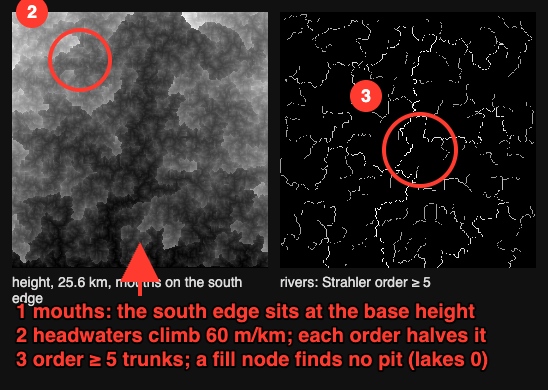
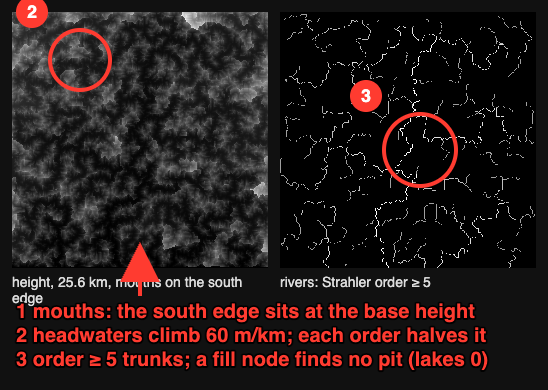
feat(hydrology): valley floors on the hydrology-first terrain
`NetworkParams.valley_width_m` (600): within that distance along the stream of a river cell the
slope eases to a floodplain (15 % of the headwater law). The distance only grows upstream, so
every cell still sits above its parent and the drainage test holds; the mean height drops by
more than a fifth against width 0. Figure and quickstart updated.

diff --git a/apps/desktop/src/lib/ops.gen.ts b/apps/desktop/src/lib/ops.gen.ts
@@ -1707,6 +1707,9 @@ export type NodeParams_jd_hydrology_network_1 = {
   "roughness"?: number;
   /** Strahler order from which a channel counts as a river in the `rivers` output (≥ 1). */
   "river_order"?: number;
+  /** Valley floor: within this distance (metres along the stream) of a river the slope eases to a
+floodplain (15 % of the headwater law), so valleys get a floor instead of a V (0 = off). */
+  "valley_width_m"?: number;
 };
 
 export type NodeParams_jd_hydrology_rivers_1 = {

diff --git a/crates/jd-terrain/src/network.rs b/crates/jd-terrain/src/network.rs
@@ -61,6 +61,13 @@ pub struct NetworkParams {
     /// Strahler order from which a channel counts as a river in the `rivers` output (≥ 1).
     #[serde(default = "d_river_order")]
     pub river_order: u32,
+    /// Valley floor: within this distance (metres along the stream) of a river the slope eases to a
+    /// floodplain (15 % of the headwater law), so valleys get a floor instead of a V (0 = off).
+    #[serde(default = "d_valley_width")]
+    pub valley_width_m: f32,
+}
+fn d_valley_width() -> f32 {
+    600.0
 }
 
 fn d_slope() -> f32 {
@@ -86,6 +93,7 @@ impl Default for NetworkParams {
             order_falloff: d_falloff(),
             roughness: d_roughness(),
             river_order: d_river_order(),
+            valley_width_m: d_valley_width(),
         }
     }
 }
@@ -152,6 +160,9 @@ pub fn hydrology_first(
     }
     if p.river_order == 0 {
         return Err(JdError::invalid("river_order", "must be ≥ 1"));
+    }
+    if !(p.valley_width_m >= 0.0 && p.valley_width_m.is_finite()) {
+        return Err(JdError::invalid("valley_width_m", "must be finite and ≥ 0"));
     }
     if !p.base_m.is_finite() {
         return Err(JdError::invalid("base_m", "must be finite"));
@@ -265,7 +276,11 @@ pub fn hydrology_first(
         }
     }
     // Heights: parents before children; a cell sits above its parent by the slope of its order.
+    // Heights, parents before children: a cell sits above its parent by the slope of its order,
+    // eased towards a floodplain within `valley_width_m` (along the stream) of a river cell —
+    // `to_river` only grows upstream, so every cell still sits above its parent.
     let mut hgt = vec![p.base_m; n];
+    let mut to_river = vec![0.0f32; n];
     for &i in by_dist.iter().rev() {
         let i = i as usize;
         let pi = parent[i];
@@ -273,8 +288,20 @@ pub fn hydrology_first(
             continue;
         }
         let pi = pi as usize;
-        let slope = p.slope_m_per_km / 1000.0 * p.order_falloff.powi(order[i] as i32 - 1);
-        hgt[i] = hgt[pi] + (dist[i] - dist[pi]) * slope;
+        let step = dist[i] - dist[pi];
+        to_river[i] = if order[i] >= p.river_order {
+            0.0
+        } else {
+            to_river[pi] + step
+        };
+        let floor = if p.valley_width_m > 0.0 {
+            let t = (to_river[i] / p.valley_width_m).clamp(0.0, 1.0);
+            0.15 + 0.85 * t * t * (3.0 - 2.0 * t)
+        } else {
+            1.0
+        };
+        let slope = p.slope_m_per_km / 1000.0 * p.order_falloff.powi(order[i] as i32 - 1) * floor;
+        hgt[i] = hgt[pi] + step * slope;
     }
     let max_order = order.iter().copied().max().unwrap_or(1).max(1) as f32;
     let mut out = Heightfield::new(width, height, tile_size, halo)?;
@@ -360,6 +387,47 @@ mod tests {
         )
         .expect("seed");
         assert_ne!(h.content_hash(), h3.content_hash());
+        // Valley floors: easing the slope near rivers lowers the land next to them; the drainage
+        // property survives (the fill still finds nothing).
+        let (v, _, _) = hydrology_first(
+            96,
+            64,
+            64,
+            4,
+            [50.0, 50.0],
+            &NetworkParams {
+                valley_width_m: 1500.0,
+                ..p.clone()
+            },
+        )
+        .expect("valley");
+        let (sharp, _, _) = hydrology_first(
+            96,
+            64,
+            64,
+            4,
+            [50.0, 50.0],
+            &NetworkParams {
+                valley_width_m: 0.0,
+                ..p.clone()
+            },
+        )
+        .expect("v");
+        let mean = |f: &Heightfield| f.to_vec().iter().sum::<f32>() / (96.0 * 64.0);
+        assert!(
+            mean(&v) < 0.8 * mean(&sharp),
+            "floodplains lower the land: {} vs {}",
+            mean(&v),
+            mean(&sharp)
+        );
+        let (vf, _) = crate::fill_depressions(&v, 0.0).expect("fill v");
+        assert!(
+            v.to_vec()
+                .iter()
+                .zip(&vf.to_vec())
+                .all(|(a, b)| (a - b).abs() < 1e-4),
+            "valley floors still drain"
+        );
         // An island drains to every edge; a bad slope is refused.
         let (isl, _, _) = hydrology_first(
             48,

diff --git a/memory/todo.md b/memory/todo.md
@@ -51,7 +51,7 @@ Conventions: `- [ ]` planned · `- [x]` done · `- [~]` in progress (add owner) 
 
 ## Phase 3 — Simulation
 - [~] Thermal ✔ (CPU Jacobi, `jd.erosion.thermal@1`, mass-conserving; GPU ✔ (`engine: gpu` → `jd-gpu` WGSL kernel incl. hardness, parity 1.9e-7 / 4.8e-8 with hardness, 1024² × 50: 295 ms vs 3144 ms debug CPU, release 2048² 146 vs 683 ms); tile-local ☐) · hydraulic (grid/virtual pipes) ✔ (`jd.erosion.hydraulic@1`, CPU, closed boundary, concentration cap ✔, per-cell `rain` mask input ✔, GPU ✔ (`engine: gpu`, 3 WGSL passes incl. hardness + rain + drains, parity 1 ulp/step, 1024² × 100: 578 vs 6486 ms debug); drains ✔ (`drains` mask > 0.5: water and sediment leave there, both engines, tests); layers ☐) · hydraulic (particle/droplet) ✔ (`jd.erosion.droplet@1`, Beyer, deterministic, 1024² × 1.5 M ≈ 4.6 s release) · stream-power ✔ (`jd.erosion.stream_power@1`, implicit, D8/D∞/MFD area, uplift; 2048² × 20 ≈ 4 s release) · wind ✔ (`jd.erosion.aeolian@1`, Werner slab model, mass-exact, optional sand mask) · bimodal winds ✔ (`wind2_azimuth_deg` + `wind2_share`, seeded step sequence; reticulate ridge network on the dune plain) · vegetation ✔ (`vegetation` input: cover holds and catches sand; anchored mounds; unit test) · coastal ✔ (`jd.erosion.coastal@1`: exposure-driven cliff retreat + platform/beach deposition, mass-exact) · fetch + longshore drift ✔ (`drift` 0..1 with `wind_azimuth_deg` / world wind: windward exposure, downwind deposition; unit test; `exposure` input ✔ (the sea-level node's wave exposure scales the wave work: sheltered bays keep their shore; test); refraction / coast-wide budget ☐) · snow cover mask ✔ (`jd.climate.snow@1`: snow line, slope retention, sun aspect, wind scour) · snowpack sim ✔ (`jd.climate.snowpack@1`: accumulation where cold, degree-day melt with lapse rate + sun, windward→lee drift; `depth` + `cover`; keyed temperature over the timeline → `snowpack-melt.mp4`; avalanching ✔ (`avalanche_slope_deg` / `avalanche_strength`: steep cells slide to the lowest neighbouring snow surface, mass-exact, unit test); albedo ✔ (`albedo` 0..1 scales the melt by 1 − albedo × cover; unit test))
-- [~] Hydrology: D8 flow accumulation ✔ (`jd.analysis.flow@1`), priority-flood fill ✔ (`jd.hydrology.fill@1`, outputs drainable field + `lakes`), rivers ✔ (`jd.hydrology.rivers@1`: fill → D8 accumulation → smoothstep incision, `rivers` mask); TWI ✔ (`jd.hydrology.wetness@1`); D∞ ✔ + MFD ✔ (`method: d8|dinf|mfd` on flow + rivers nodes; wetness d8/dinf/mfd ✔ via `method`); sea level ✔ (`jd.hydrology.sea_level@1`: border-connected `ocean` + `depth`); viewport sea plane ✔ (follows the sea_level node); hydrology-first generation ✔ (`jd.hydrology.network@1`: seeded random spanning tree from the mouths → Strahler orders → heights along the tree; `out`/`rivers`/`order`; test + CLI: priority-flood fills nothing; `cli-network.png`; primitive blending / valley profiles ☐)
+- [~] Hydrology: D8 flow accumulation ✔ (`jd.analysis.flow@1`), priority-flood fill ✔ (`jd.hydrology.fill@1`, outputs drainable field + `lakes`), rivers ✔ (`jd.hydrology.rivers@1`: fill → D8 accumulation → smoothstep incision, `rivers` mask); TWI ✔ (`jd.hydrology.wetness@1`); D∞ ✔ + MFD ✔ (`method: d8|dinf|mfd` on flow + rivers nodes; wetness d8/dinf/mfd ✔ via `method`); sea level ✔ (`jd.hydrology.sea_level@1`: border-connected `ocean` + `depth`); viewport sea plane ✔ (follows the sea_level node); hydrology-first generation ✔ (`jd.hydrology.network@1`: seeded random spanning tree from the mouths → Strahler orders → heights along the tree; `out`/`rivers`/`order`; test + CLI: priority-flood fills nothing; `cli-network.png`; valley floors ✔ (`valley_width_m`: the slope eases to 15 % within that stream distance of a river, drainage preserved by construction, test); primitive blending ☐)
 - [~] Biomes ✔ (`jd.biome.classify@1` rules → class map, `jd.mask.class@1`, desktop rules table editor ✔) · scatter ✔ (`terrain.scatter` from any 0..1 mask → CSV/JSON instances, deterministic) · engine instance formats: glTF `EXT_mesh_gpu_instancing` ✔ (`terrain.scatter … .glb`, Blender-verified) · desktop Scatter panel + viewport instances ✔ · Unity/Unreal instance formats ✔ (`terrain.scatter {engine: unreal|unity}` → DataTable CSV in cm with the Landscape row order / Terrain-local JSON with normalised positions; conventions test; 1 207 trees on the acceptance world)
 - [~] **VUE study (owner request 2026-10-20)**: research ✔ (`docs/research/vue-features.md`, 2026-10-20: VUE discontinued/free, inventory with REPORTED/VERIFIED tags, ranked unique features: erosion/weather timeline, dynamic painted ecosystems, strata ✔, physical sky + HDRI export, spline toolkit, infinite extension, rock generator) · build order: timeline ✔ (core + desktop) → sky/HDRI ✔ (`sky.bake` Preetham HDRI EXR + preview; viewport dome textured from `sky.preview`, turbidity slider) → painted ecosystem layers ✔ density painting (`clamp` on `jd.sculpt.strokes@1`, Scatter ▸ Paint density, `paint.spec.ts`; multi-layer exclusion ✔ (`terrain.scatter {avoid: {csv, radius_m}}` drops candidates within the radius of an earlier layer's instances — hash grid; 2 147 → 1 523 trees, nearest rock 1.4 → 25.0 m), growth over the timeline ✔ (`terrain.scatter {time | follow_time}`: birth spread across the timeline, maturity half a timeline later, `age` on every point scales GLB/engine instances; viewport follows the slider; `timeline.spec.ts`)) → splines ✔ core (`jd.terrain.spline@1`: flatten / cut / raise along a polyline, smoothed grade, corridor mask; Blender-rendered road; desktop Road mode ✔ (`road.spec.ts`: one drag = one spline node) → rock generator ✔ (`terrain.rocks`, `rock` proxy on `terrain.scatter`; validator-clean, Blender-verified) → infinite extension ✔ as a horizon skirt (`terrain.horizon`, desktop Horizon toggle; noise only — the VUE list is done) — original note: read e-on VUE's documentation (ecosystems/population, spectral atmospheres + clouds, procedural terrains and rocks, function graph, EcoSystem painting, planetary/infinite terrains) → `docs/research/vue-features.md` with VERIFIED/REPORTED tags; list what no other terrain package has and plan the ones that fit a terrain tool (candidates: ecosystem rules driven by slope/altitude/moisture with density painting ✔ partly via biome rules + scatter; atmosphere/sky presets for the viewport; rock generators; "infinite" procedural extension; material layering by altitude/slope with roughness variation)
 - [x] **Desert landscapes (owner request 2026-10-20)**: wind dunes ✔ (`jd.erosion.aeolian@1`, Werner) · sinkholes/karst ✔ (`jd.erosion.karst@1`: seeded dolines on flat/soluble ground, bowl/collapse profiles, `sinkholes` floor mask) · underground drainage ✔ (`drains` input on `jd.hydrology.fill@1` / `jd.hydrology.rivers@1`: sinkholes are outlets — playa mean depth 0.78 → 0.17 m, wadis end in the dolines) · wadis/arroyos ✔ as a recipe (rivers node, threshold 0.4, depth 3 m, dinf; quickstart) · playas/salt flats ✔ as a recipe (fill node: `lakes` depth = evaporite floor, `out` = pan; quickstart) · mesas/buttes ✔ (`jd.terrain.strata@1` hardness → `hardness` inputs on thermal, stream power and hydraulic; Blender-rendered mesa demo) · yardangs ✔ (`jd.erosion.yardang@1`: windward abrasion with wind shadow, optional hardness; Blender-rendered demo, west/east facing asymmetry 1.0 → 1.6) · desert pavement/reg + varnish materials ✔ as a biome rule set (quickstart) · salt crust ✔ (`mask` input + per-rule `mask` band on `jd.biome.classify@1`; fill.lakes → mask; 20.4 % of the demo plain at ≥ 0.5 m; `cli-desert-salt.png`) · desert tutorial scene ✔ (`desert.spec.ts`: plain → dunes → sinkholes, `desktop-desert.png` + recording) · acceptance scene ✔ (§20 item 2 runs karst + strata-hardened yardangs + a spline road on the demo world; karst reports PARTIAL when the mountain world has no ground under 20°) · desert preset ✔ (Terrain · Noise **Preset** select: Mountains / Ridged alpine / Rolling hills / Desert plain; `desert.spec.ts` starts from it; `desktop-desert.png` re-annotated with a saved `.annot.json`)

diff --git a/memory/handover_session.md b/memory/handover_session.md
@@ -350,6 +350,7 @@ Append-only log. Newest entry first. Timestamps are local (Africa/Nairobi, UTC+3
 - `05:35:00` **Rain / snowfall split**: `RainParams { temperature_c 12, lapse_c_per_km 6.5, snow_below_c 1 }`; `orographic_rain` returns (rain, snowfall, moisture) — the same precipitation split per cell by the lapsed air temperature, both normalised against the total's 99th percentile; `snowfall` port on `jd.climate.rain@1`. Test: 1 500 m crest rains at 12 °C, snows at 2 °C while the plain rains; totals equal. **Disk**: `target/debug/deps` held 22 595 files (13 GiB), 4 553 of them `jd_terrain-*` from differing build flavours; deleting workspace-crate artefacts older than 45 min freed 3.3 GB — `find target/debug/deps \( -name 'jd_*' -o -name 'libjd_*' -o -name 'jd-*' \) -mmin +45 -delete` is the cheap sweep.
 - `05:50:00` **Wave shadowing**: `jd_terrain::ocean::wave_exposure(ocean, spacing, wind_azimuth_deg, fetch_km)` — one upwind sweep (8-neighbour wind, like the rain): land resets the reach, the border is open sea, exposure = √(reach / fetch); third output `exposure` on `jd.hydrology.sea_level@1` (fetch unset → 50 km scale). Test: an island block casts a shadow (< 0.3 just downwind, > 0.9 further on), open rows 1.0, easterly mirrors. CLI 512² coast figure `cli-exposure.png`.
 - `06:00:00` **Coastal `exposure` input**: `coastal_erode_with(h, p, energy, cancel)` — the cut at a shore cell is scaled by the mean energy of its sea neighbours (0..1, the sea-level node's `exposure`), `exposure` port on `jd.erosion.coastal@1`. Test: a straight coast with energy 1 west / 0.1 east → the west half receives > 3× the wave work. CleanMyMac was back at 469 % CPU at 01:46 — gate e2e only when the load is low.
+- `06:10:00` **Valley floors on the network**: `NetworkParams.valley_width_m` (600) — `to_river` = metres along the tree to the first river cell downstream (0 on river cells, grows upstream), slope × (0.15 + 0.85·smoothstep(to_river / width)); monotone by construction so the drainage test still holds; mean height drops > 20 % vs width 0 (CLI 512²: max 125.7 / mean 22.5 m vs 226 / 73). Figure regenerated.
 ### Open / next (as of 2026-10-21 00:15, head `371dbf6` hydraulic GPU)
 0. **CI**: `87fc028` ran to completion — rust on ubuntu / macOS / windows green with the wgpu crate (ubuntu skips the parity tests, macOS runs them on Metal), docs and frontend green, cargo-deny green; only the fuzz job failed (the FBX `i32::MIN` catch, fixed in `10a59c0`). Pushing cancels the in-progress run of the previous head (concurrency rule), so hold pushes for ~20 min when a green run matters.
 1. **Disk**: `[profile.dev] debug = "line-tables-only"` (Cargo.toml) — a full debug build is 4.2 GB, not 13 GB. Still run gates with `CARGO_INCREMENTAL=0`, delete `target/debug/incremental` between iterations, and keep scratch in `/tmp/jd-scratch` (it survives `cargo clean` and the external wipe seen at 23:37 on 2026-10-20, which removed `target/`, `apps/desktop/node_modules` and the Playwright browser cache — recovery recipe in the 00:45 timeline entry). **Likely cause of that wipe, found 01:34 on 2026-10-21: `CleanMyMac_5` was running at 335 % CPU (load average 27 on 10 cores) while the e2e suite failed 3–5 specs on 5 s timeouts; its cleanup removes build directories, `node_modules` and app caches. Ask the owner to exclude the repo (and `~/Library/Caches/ms-playwright`) from CleanMyMac, or pause it during gate runs; e2e results taken under that load are not trustworthy.**

diff --git a/docs/user/cli-quickstart.md b/docs/user/cli-quickstart.md
@@ -625,15 +625,15 @@ imported  min 63.3  max 382.0  mean 188.2      (the 1 km window inside the 2.2 k
 $ jd new Net.jdproj --extent 25600 --resolution 512 --seed 3
 $ jd op graph.add_node --project Net.jdproj --save --params '{"kind":"jd.hydrology.network@1","params":{"seed":3,"river_order":5}}'
 # network.out → `net`, network.rivers → `rivers`; network.out → fill.in, fill.lakes → `lakes`
-jd.hydrology.network@1  595 ms (512²)        jd.hydrology.fill@1  182 ms
-net     min 0.0  max 226.1  mean 73.1 m
+jd.hydrology.network@1  632 ms (512²)        jd.hydrology.fill@1  182 ms
+net     min 0.0  max 125.7  mean 22.5 m          (valley floors on; 226 / 73 m with valley_width_m 0)
 rivers  0..1 (order / max order), 0 below order 5
 lakes   min 0  max 0  mean 0                 ← the fill finds nothing: every cell already drains
 ```
 
 ![Two panels: a dendritic height field draining to the bottom edge, and the river mask of its order-5 and higher trunks](images/cli-network.png)
 
-`jd.hydrology.network@1` builds the terrain the way Génevaux et al. (2013) argue it should be built — network first. The river mouths are the cells of one edge (`mouths`: south / north / west / east, or the whole border for an island); a spanning tree grown from them over a smooth seeded cost field (two octaves of lattice noise, so cheap corridors — the valleys — hold their course for a dozen cells; `roughness` 0 = straight parallel drainage, 1 = the noise alone) is the drainage network; Strahler orders come from a post-order pass; then each cell sits above its downstream parent by the slope of its order times the step (`slope_m_per_km` for headwaters, × `order_falloff` per higher order, so big rivers run flat). Every cell drains to a mouth by construction — the unit test and the CLI run above both confirm that priority-flood filling changes nothing. `rivers` marks channels of `river_order` and up; `order` is the raw Strahler number. Not modelled: valley cross-sections (run the erosion nodes on the result), Génevaux's primitive blending.
+`jd.hydrology.network@1` builds the terrain the way Génevaux et al. (2013) argue it should be built — network first. The river mouths are the cells of one edge (`mouths`: south / north / west / east, or the whole border for an island); a spanning tree grown from them over a smooth seeded cost field (two octaves of lattice noise, so cheap corridors — the valleys — hold their course for a dozen cells; `roughness` 0 = straight parallel drainage, 1 = the noise alone) is the drainage network; Strahler orders come from a post-order pass; then each cell sits above its downstream parent by the slope of its order times the step (`slope_m_per_km` for headwaters, × `order_falloff` per higher order, so big rivers run flat). Every cell drains to a mouth by construction — the unit test and the CLI run above both confirm that priority-flood filling changes nothing. Within `valley_width_m` (600 m along the stream) of a river cell the slope eases to a floodplain — 15 % of the law — so valleys get a floor instead of a V, and because that distance only grows upstream every cell still sits above its parent (unit test: the mean height drops by more than a fifth, the fill still finds nothing). `rivers` marks channels of `river_order` and up; `order` is the raw Strahler number. Not modelled: Génevaux's primitive blending, terraces (run the erosion nodes on the result).
 
 ### Wave shadow: where the sea is sheltered
 
